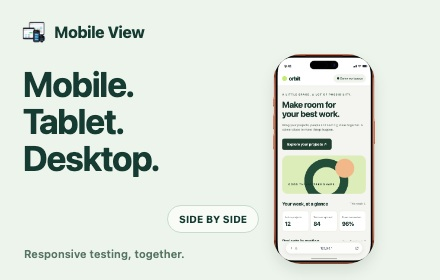
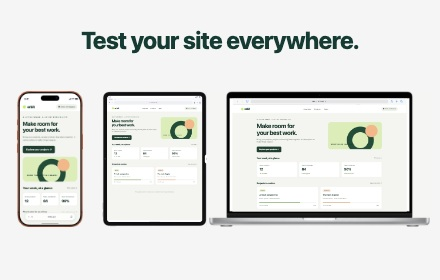
Refresh promo-small artwork with three-device layout

Changed region(s): [[0.0295, 0.0571, 0.975, 0.9714], [0.0295, 0.8857, 0.4136, 0.9429], [0.3841, 0.5429, 0.4136, 0.5714]]

diff --git a/store-assets/source/store-listing-assets.html b/store-assets/source/store-listing-assets.html
@@ -1,6 +1,13 @@
 <!doctype html><html lang="en"><meta charset="utf-8"><meta name="viewport" content="width=device-width,initial-scale=1"><title>Mobile View store artwork</title>
 <style>
-*{box-sizing:border-box}html,body{margin:0;width:100%;height:100%;overflow:hidden}body{font-family:Inter,-apple-system,BlinkMacSystemFont,"Segoe UI",sans-serif;color:#153b32;background:#f0f4ef}.brand{display:flex;align-items:center;gap:10px;font-weight:750;letter-spacing:-.4px;font-size:19px}.brand img{width:29px;height:29px}.screen{position:relative;width:1280px;height:800px;background:#f5f5f3}.screen header{height:80px;display:flex;align-items:center;justify-content:space-between;gap:24px;padding:15px 32px;background:#fff;border-bottom:1px solid #e3e9e5}.screen h1{margin:0;line-height:1.15;letter-spacing:-.65px;font-weight:750;font-size:28px;max-width:990px}.screen header .brand{font-size:14px;white-space:nowrap}.screen header .brand img{width:24px;height:24px}.screen>.capture{position:absolute;top:80px;left:0;width:1280px;height:720px}.promo{width:1400px;height:560px;position:relative;background:radial-gradient(ellipse at 90% 50%,#d5e8d6,transparent 65%),#f0f4ef}.promo>.brand{position:absolute;left:50px;top:38px}.promo h1{position:absolute;left:50px;top:112px;width:470px;margin:0;font-size:58px;line-height:1.05;letter-spacing:-2.8px}.promo p{position:absolute;left:52px;top:325px;font-size:19px;line-height:1.5;max-width:365px;color:#5a7465;margin:0}.promo .proof{position:absolute;left:52px;bottom:46px;font-size:13px;font-weight:650;letter-spacing:.3px;color:#496956}.workspace{position:absolute;left:560px;top:58px;width:810px;height:auto;border-radius:16px;border:1px solid #d6e0d5;box-shadow:0 18px 54px #24442c24}.small{position:relative;width:440px;height:280px;background:#edf4ec}.small .brand{position:absolute;left:22px;top:20px;font-size:16px;gap:8px}.small .brand img{width:24px;height:24px}.small h1{position:absolute;top:65px;left:23px;margin:0;font-size:35px;letter-spacing:-1.1px;line-height:1.06}.small p{position:absolute;bottom:20px;left:24px;margin:0;font-size:11px;font-weight:600;color:#567563}.small .phone{position:absolute;left:273px;top:54px;height:210px;width:auto;border-radius:28px;box-shadow:0 7px 14px #24442c20}.small .device-tag{position:absolute;left:167px;top:205px;border:1px solid #c8dbcd;border-radius:40px;background:#f9fcf6;padding:7px 11px;font-size:10px;font-weight:750}.og{width:1200px;height:630px;background:#f0f4ef;padding:40px}.og .brand{margin-bottom:20px}.og h1{margin:0 0 25px;font-size:40px;letter-spacing:-1.6px}.og img.capture{display:block;width:810px;height:auto;margin:0 auto;border:1px solid #d5e1d7;border-radius:12px;box-shadow:0 12px 34px #24442c20}
+*{box-sizing:border-box}html,body{margin:0;width:100%;height:100%;overflow:hidden}body{font-family:Inter,-apple-system,BlinkMacSystemFont,"Segoe UI",sans-serif;color:#153b32;background:#f0f4ef}.brand{display:flex;align-items:center;gap:10px;font-weight:750;letter-spacing:-.4px;font-size:19px}.brand img{width:29px;height:29px}.screen{position:relative;width:1280px;height:800px;background:#f5f5f3}.screen header{height:80px;display:flex;align-items:center;justify-content:space-between;gap:24px;padding:15px 32px;background:#fff;border-bottom:1px solid #e3e9e5}.screen h1{margin:0;line-height:1.15;letter-spacing:-.65px;font-weight:750;font-size:28px;max-width:990px}.screen header .brand{font-size:14px;white-space:nowrap}.screen header .brand img{width:24px;height:24px}.screen>.capture{position:absolute;top:80px;left:0;width:1280px;height:720px}.promo{width:1400px;height:560px;position:relative;background:radial-gradient(ellipse at 90% 50%,#d5e8d6,transparent 65%),#f0f4ef}.promo>.brand{position:absolute;left:50px;top:38px}.promo h1{position:absolute;left:50px;top:112px;width:470px;margin:0;font-size:58px;line-height:1.05;letter-spacing:-2.8px}.promo p{position:absolute;left:52px;top:325px;font-size:19px;line-height:1.5;max-width:365px;color:#5a7465;margin:0}.promo .proof{position:absolute;left:52px;bottom:46px;font-size:13px;font-weight:650;letter-spacing:.3px;color:#496956}.workspace{position:absolute;left:560px;top:58px;width:810px;height:auto;border-radius:16px;border:1px solid #d6e0d5;box-shadow:0 18px 54px #24442c24}/* These real captures already include their bezels; do not clip or round them. */
+.small{position:relative;width:440px;height:280px;background:#f5f5f5}
+.small h1{position:absolute;top:27px;left:16px;right:16px;margin:0;text-align:center;font-size:24px;font-weight:750;line-height:1.15;letter-spacing:-.7px}
+.small .phone,.small .tablet,.small .laptop{position:absolute;top:91px;height:136px;width:auto}
+.small .phone{left:17px}
+.small .tablet{left:102px}
+.small .laptop{right:10px}
+.og{width:1200px;height:630px;background:#f0f4ef;padding:40px}.og .brand{margin-bottom:20px}.og h1{margin:0 0 25px;font-size:40px;letter-spacing:-1.6px}.og img.capture{display:block;width:810px;height:auto;margin:0 auto;border:1px solid #d5e1d7;border-radius:12px;box-shadow:0 12px 34px #24442c20}
 </style><main id="art"></main><script src="../listings/captions.js"></script><script>
 const query=new URLSearchParams(location.search), asset=query.get('asset')||'screenshot-01', locale=query.get('locale')||'en';
 const brand='<div class="brand"><img src="../../public/icons/icon-128.png" alt="">Mobile View</div>';
@@ -11,7 +18,7 @@ if(asset.startsWith('screenshot-')){
  art.className='screen';art.innerHTML='<header><h1></h1>'+brand+'</header><img class="capture" alt="Actual Mobile View extension workspace">';
  art.querySelector('h1').textContent=(captions[locale]||captions.en)[index];art.querySelector('.capture').src='captures/'+shot+'.png';
 }else if(asset==='promo-small'){
- art.className='small';art.innerHTML=brand+'<h1>Mobile.<br>Tablet.<br>Desktop.</h1><p>Responsive testing, together.</p><img class="phone" src="captures/phone.png" alt="Actual mobile preview"><span class="device-tag">SIDE BY SIDE</span>';
+ art.className='small';art.innerHTML='<h1>Test your site everywhere.</h1><img class="phone" src="captures/phone.png" alt="Actual phone preview of the Orbit demo website"><img class="tablet" src="captures/tablet.png" alt="Actual tablet preview of the same Orbit demo website"><img class="laptop" src="captures/desktop.png" alt="Actual laptop preview of the same Orbit demo website">';
 }else if(asset==='promo-marquee'){
  art.className='promo';art.innerHTML=brand+'<h1>Find layout issues<br>before you ship.</h1><p>Compare responsive layouts<br>side by side.</p><div class="proof">FREE · LOCAL · OPEN SOURCE</div><img class="workspace" src="captures/overview.png" alt="Actual device comparison">';
 }else{

diff --git a/store-assets/README.md b/store-assets/README.md
@@ -4,7 +4,7 @@ Both promo images and all three screenshot stories have been replaced with actua
 
 | Asset | Dimensions | Purpose |
 |---|---:|---|
-| `webstore-upload/promo-small-440x280.jpg` | 440 × 280 | **Mobile. Tablet. Desktop.** |
+| `webstore-upload/promo-small-440x280.jpg` | 440 × 280 | **Test your site everywhere.** — phone, tablet and laptop captures at equal height, separated by clear gaps with full frame edges and a shared baseline |
 | `webstore-upload/promo-marquee-1400x560.jpg` | 1400 × 560 | **Find layout issues before you ship.** |
 | `webstore-upload/screenshot-01-overview.jpg` | 1280 × 800 | Real phone/tablet/desktop workspace |
 | `webstore-upload/screenshot-02-responsive-workspace.jpg` | 1280 × 800 | Real UI with synchronized scrolling enabled |
